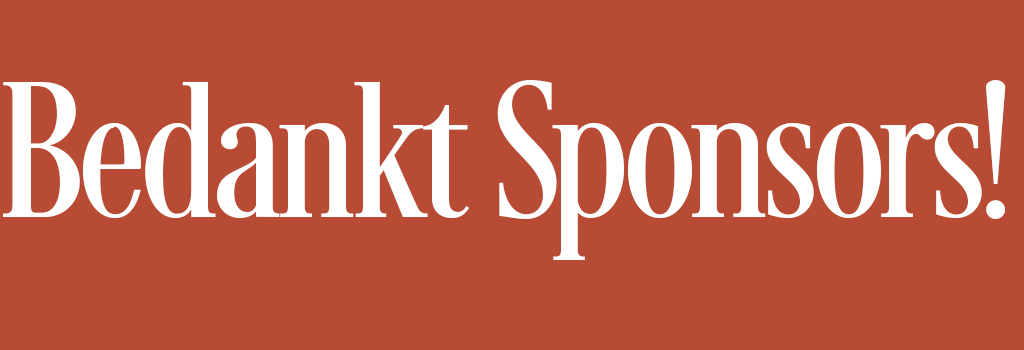
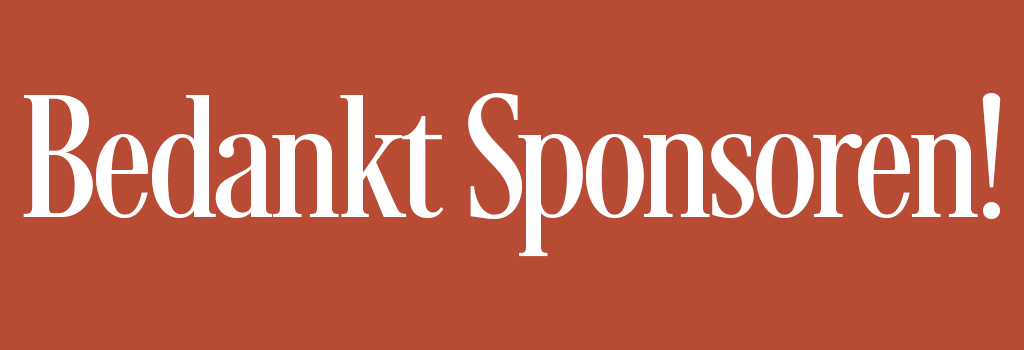
Script update after bundler exec jekyll build

Changed region(s): [[0.0, 0.2286, 1.0, 0.7429], [0.1562, 0.2286, 0.2188, 0.2857]]

diff --git a/sponsoren/index.md b/sponsoren/index.md
@@ -10,9 +10,9 @@ author_profile: false
 image:
   feature: bedanktsponsers.jpg
 ---
-# Onze Sponsors
+# Onze Sponsoren
 
-Hierbij willen we onze sponsors bedankten, zonder hun zou dit alles niet mogelijk geweest zijn.
+Hierbij willen we onze sponsoren bedankten, zonder hun zou dit alles niet mogelijk geweest zijn.
 
 ## Amsterdam Good Cookies, De Stroopwafel Experts
 
